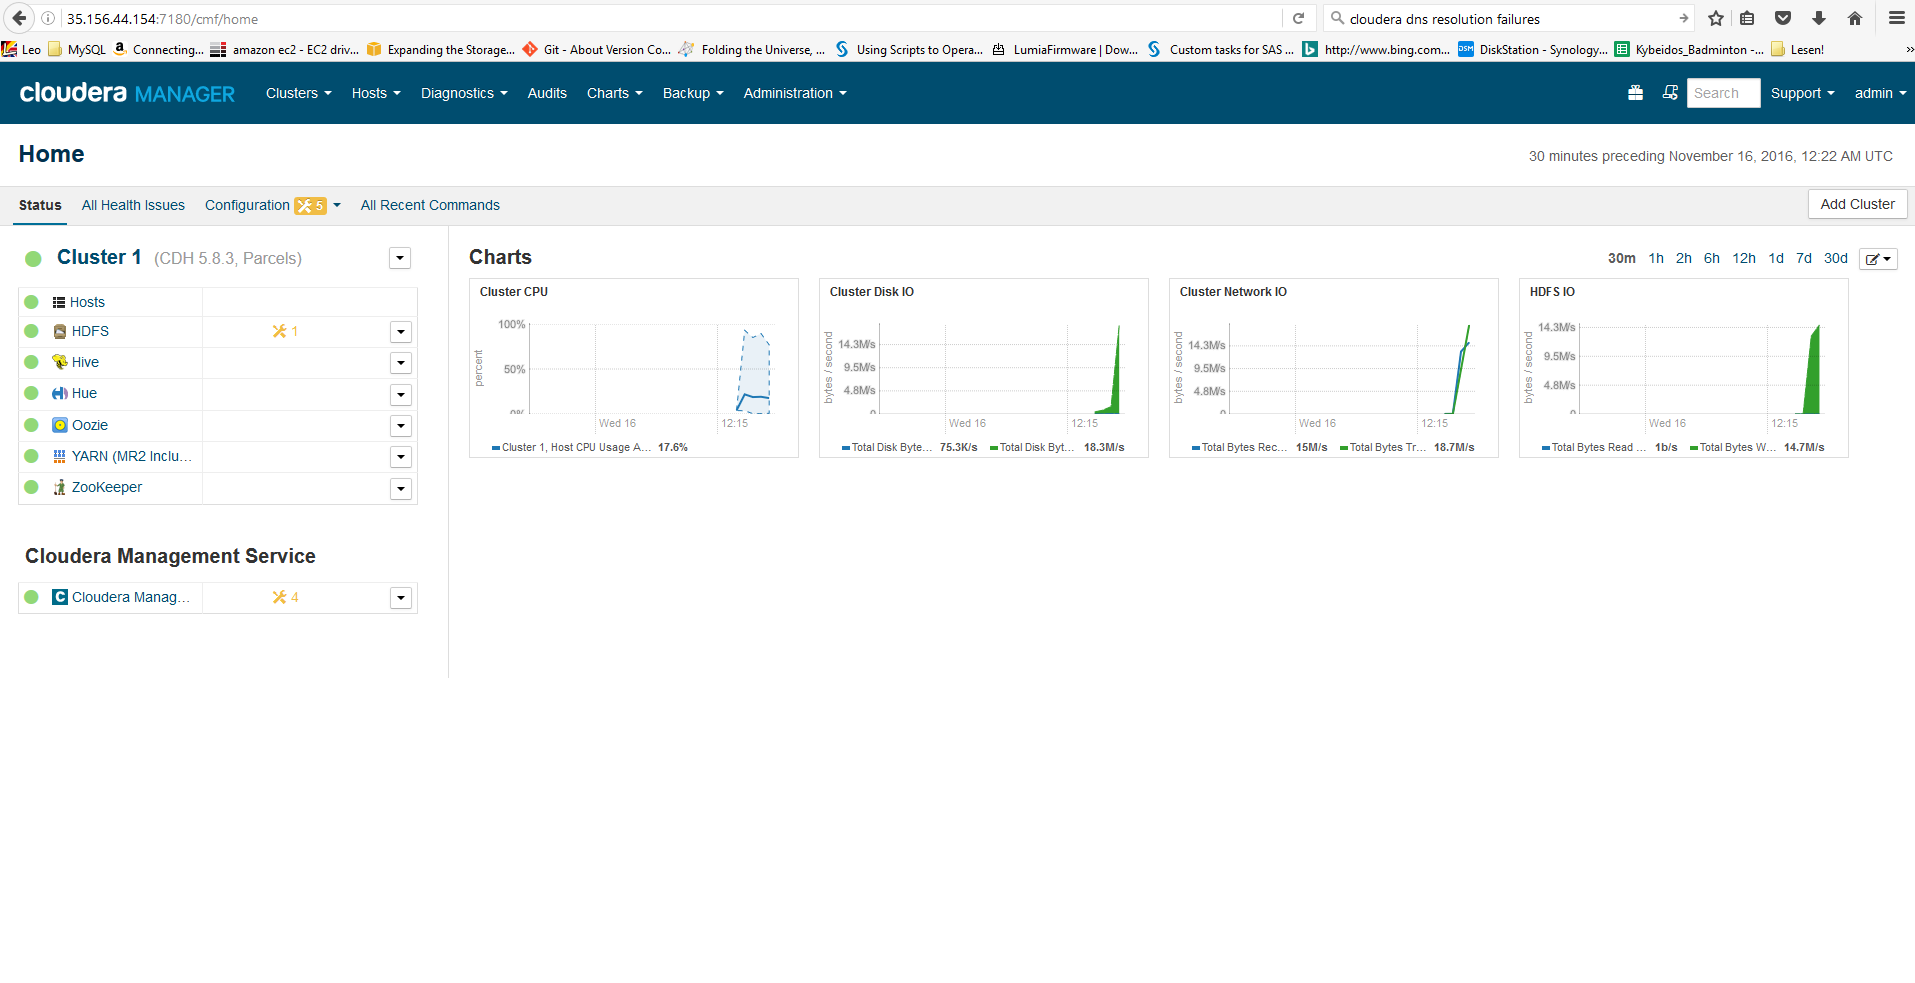
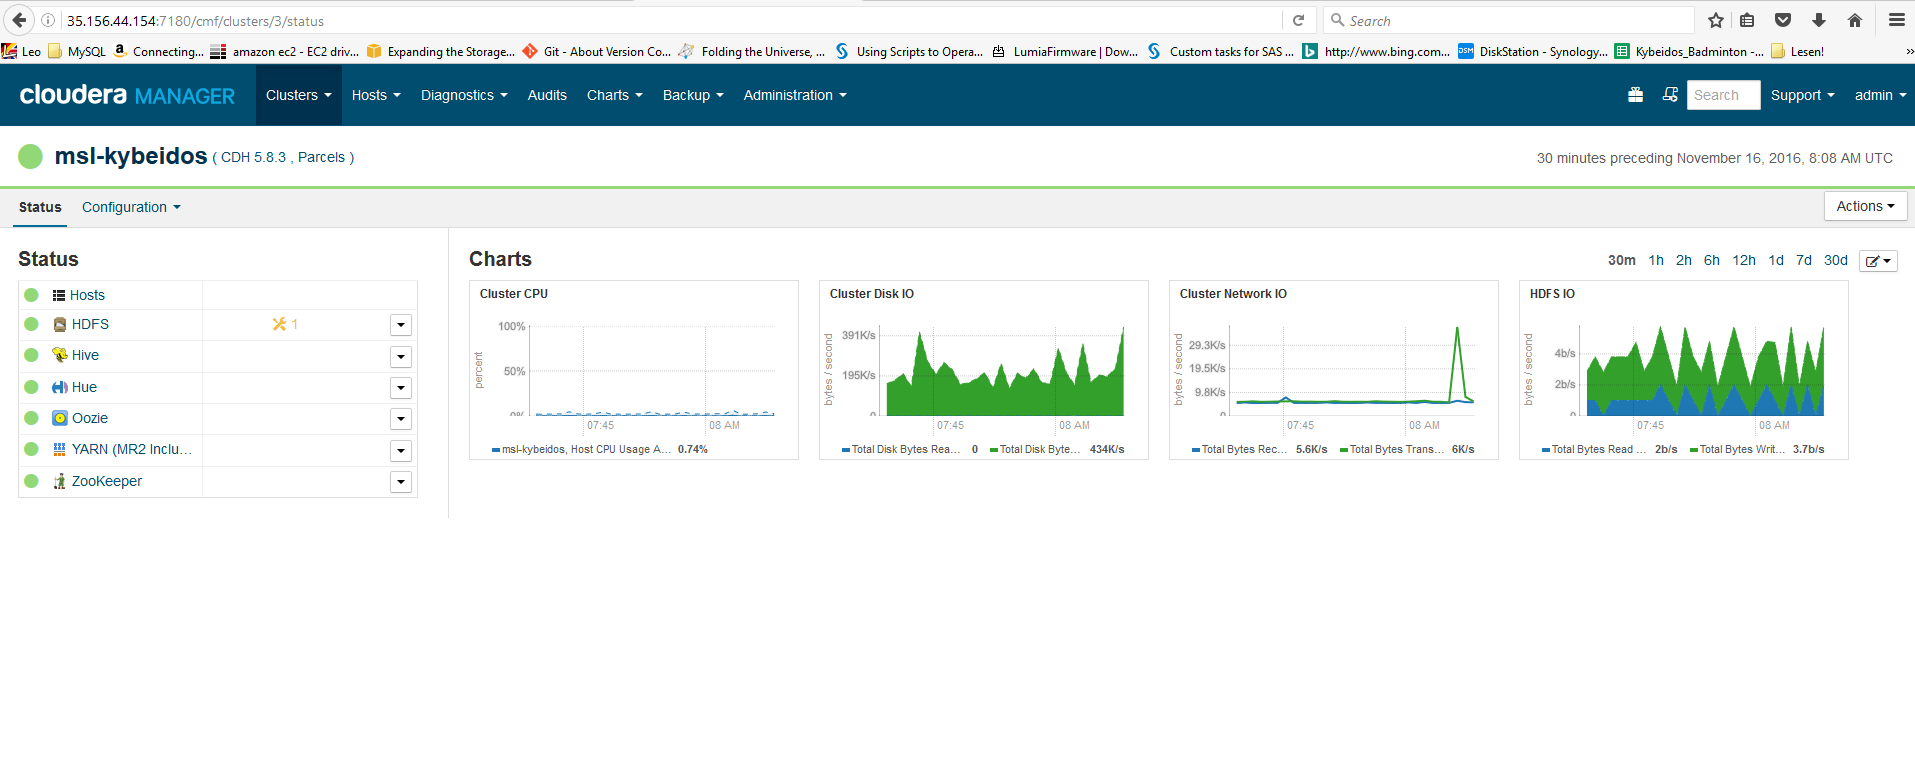
Final state
Updates after another faied installation.
Forgot to rename Cluster

diff --git a/installation/0_nodeIPs.md b/installation/0_nodeIPs.md
@@ -1,9 +1,9 @@
 ## AWS Servers
 
-Server Name            | Public DNS                                            | Public IP
------------------------|-------------------------------------------------------|---------------
-Clouder Manager Server | ec2-35-156-79-111.eu-central-1.compute.amazonaws.com  | 35.156.79.111
-Node 1                 | ec2-35-156-86-105.eu-central-1.compute.amazonaws.com  | 35.156.86.105
-Node 2								 | ec2-35-156-81-19.eu-central-1.compute.amazonaws.com 	 | 35.156.81.19
-Node 3                 | ec2-35-156-86-11.eu-central-1.compute.amazonaws.com   | 35.156.86.11
-Node 4                 | ec2-35-156-81-214.eu-central-1.compute.amazonaws.com  | 35.156.81.214
+Server Name                 | Public DNS                                            | Public IP
+----------------------------|-------------------------------------------------------|---------------
+Clouder Manager Server (CM) | ec2-35-156-44-154.eu-central-1.compute.amazonaws.com  | 35.156.44.154
+Node 1 (Node1)              | ec2-35-156-45-104.eu-central-1.compute.amazonaws.com  | 35.156.45.104
+Node 2 (Node2)		          | ec2-35-156-74-210.eu-central-1.compute.amazonaws.com 	| 35.156.74.210
+Node 3 (Node3)              | ec2-35-156-28-40.eu-central-1.compute.amazonaws.com   | 35.156.28.40
+Node 4 (Node4)              | ec2-35-156-72-61.eu-central-1.compute.amazonaws.com   | 35.156.72.61

diff --git a/installation/2_replica_working.md b/installation/2_replica_working.md
@@ -1,15 +1,16 @@
 mysql> show slave status \G
+mysql> show slave status \G;
 *************************** 1. row ***************************
                Slave_IO_State: Waiting for master to send event
-                  Master_Host: ip-172-31-7-178.eu-central-1.compute.internal
-                  Master_User: root
+                  Master_Host: 172.31.11.226
+                  Master_User: repl
                   Master_Port: 3306
                 Connect_Retry: 60
-              Master_Log_File: mysql-bin.000001
-          Read_Master_Log_Pos: 1098
+              Master_Log_File: mysql-bin.000004
+          Read_Master_Log_Pos: 43794070
                Relay_Log_File: mysqld-relay-bin.000002
-                Relay_Log_Pos: 1052
-        Relay_Master_Log_File: mysql-bin.000001
+                Relay_Log_Pos: 43794059
+        Relay_Master_Log_File: mysql-bin.000004
              Slave_IO_Running: Yes
             Slave_SQL_Running: Yes
               Replicate_Do_DB:
@@ -21,8 +22,8 @@ mysql> show slave status \G
                    Last_Errno: 0
                    Last_Error:
                  Skip_Counter: 0
-          Exec_Master_Log_Pos: 1098
-              Relay_Log_Space: 1209
+          Exec_Master_Log_Pos: 43794070
+              Relay_Log_Space: 43794216
               Until_Condition: None
                Until_Log_File:
                 Until_Log_Pos: 0
